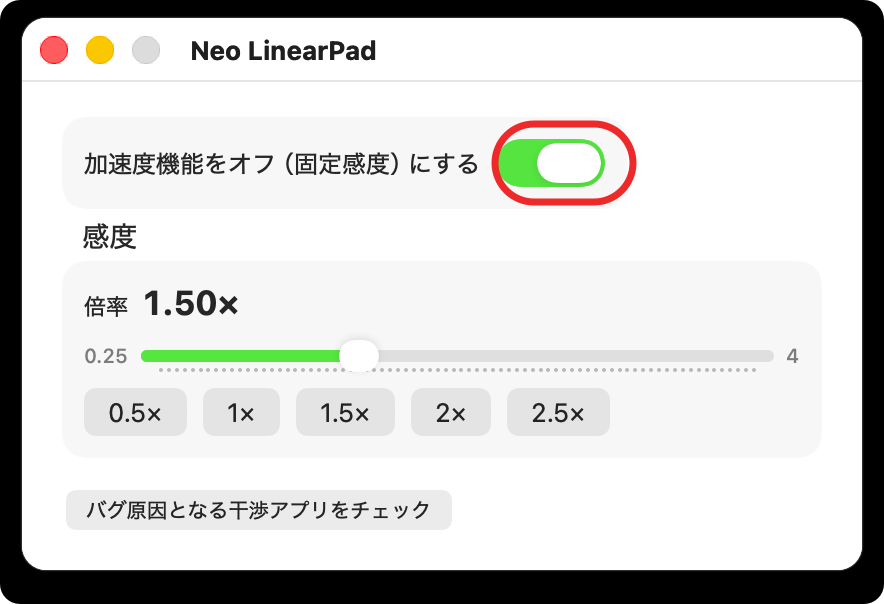
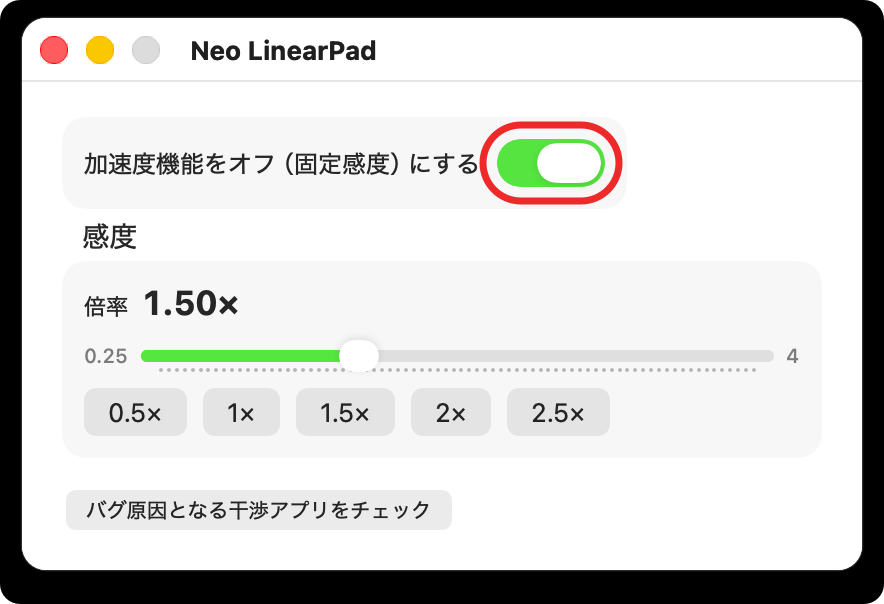
Center the red ring on the switch in the install guide image

Changed region(s): [[0.5192, 0.1788, 0.733, 0.3576]]

diff --git a/ja/index.html b/ja/index.html
@@ -47,7 +47,7 @@
             </li>
             <li>PC右上に出るアイコンをクリックし、スイッチをオンにします。
               <img src="../assets/guide/install-5-menubar.png?v=5" alt="メニューバーのアイコン" loading="lazy">
-              <img src="../assets/guide/install-5-switch.png?v=5" alt="スイッチをオンにする" loading="lazy">
+              <img src="../assets/guide/install-5-switch.png?v=6" alt="スイッチをオンにする" loading="lazy">
             </li>
           </ol>
         </div>
